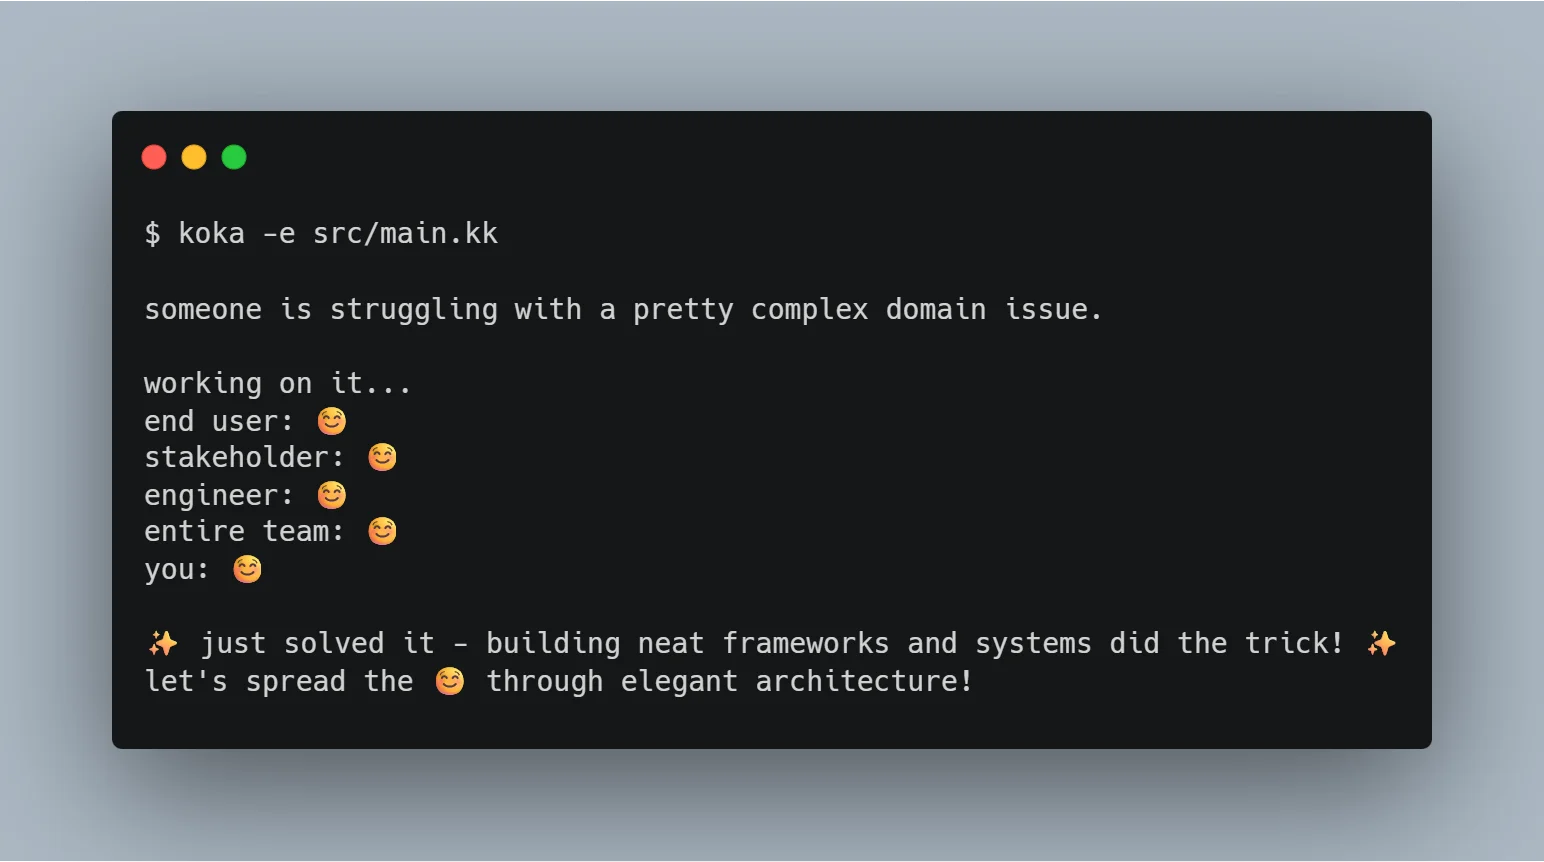
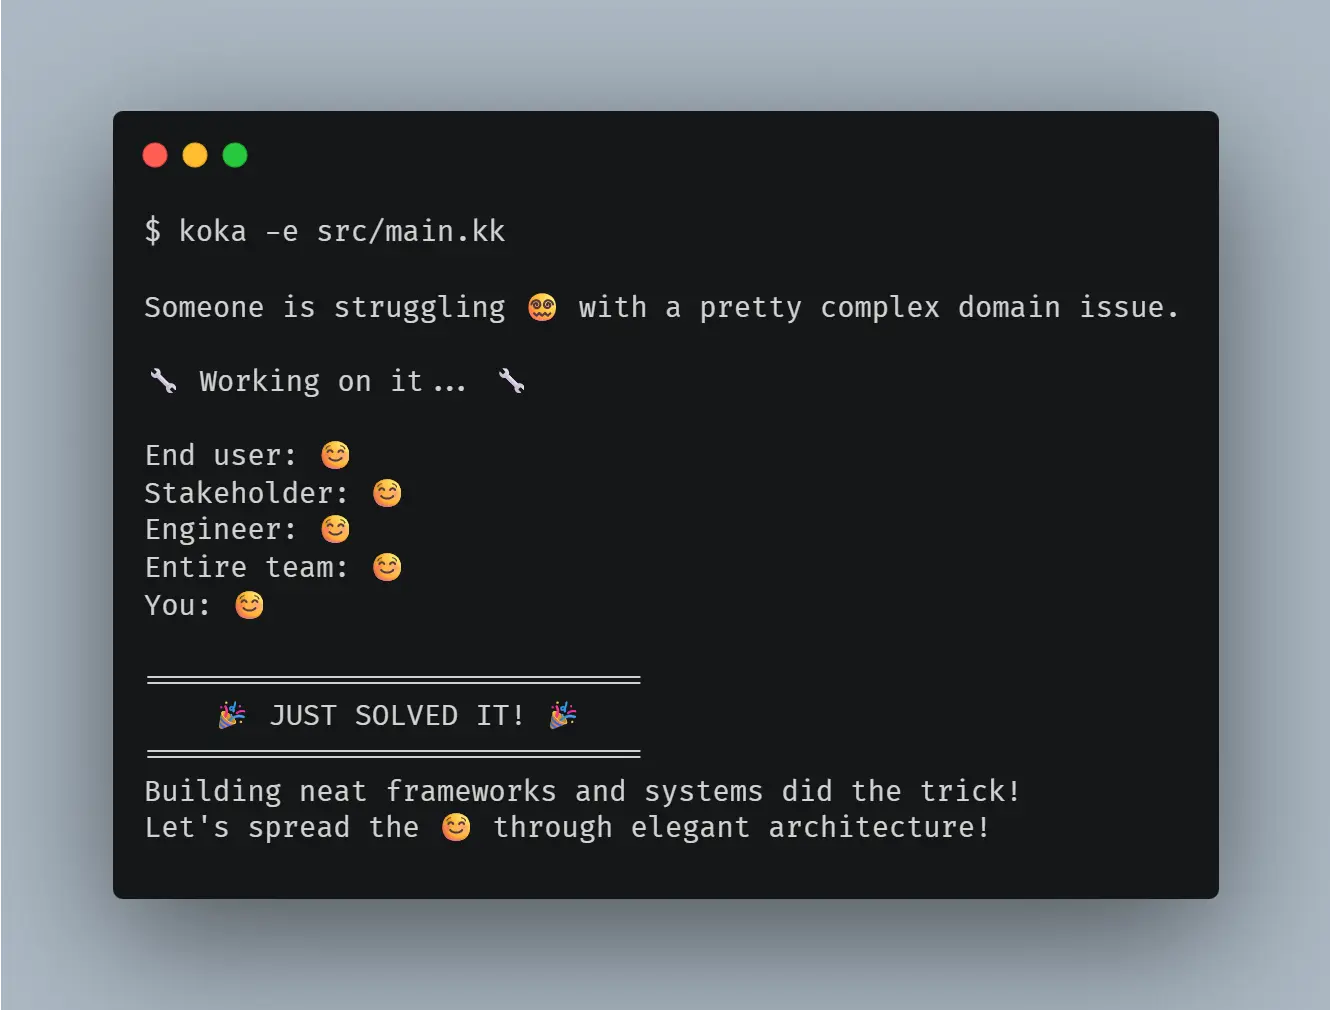
feat: update README.md [skip ci]

Changed region(s): [[0.0617, 0.0905, 0.9248, 0.9049], [0.0, 0.9954, 1.0, 1.0]]

diff --git a/README.md b/README.md
@@ -74,7 +74,7 @@ struct outcome
 // Resolves an issue by applying a solution.
 // Makes everyone happy as a side effect.
 fun resolve(issue, solution): happiness outcome
-  val users = ["end user", "stakeholder", "engineer", "entire team", "you"]
+  val users = ["End user", "Stakeholder", "Engineer", "Entire team", "You"]
 
   users.foreach fn(person) { makeHappy(person) }
 
@@ -82,16 +82,19 @@ fun resolve(issue, solution): happiness outcome
 
 // Models an software development process where solving problems makes everyone happy.
 fun main()
-  val issue = Issue("a pretty complex domain issue", "someone")
+  val issue = Issue("a pretty complex domain issue", "Someone")
 
-  println(issue.actor ++ " is struggling with " ++ issue.description ++ ".\n")
-  println("working on it...")
+  println(issue.actor ++ " is struggling 😵💫 with " ++ issue.description ++ ".\n")
+  println("🔧 Working on it... 🔧\n")
 
   val outcome = withHappiness fn()
-    resolve(issue, "building neat frameworks and systems")
+    resolve(issue, "Building neat frameworks and systems")
 
-  println("\n✨ just solved it - " ++ outcome.solution ++ " did the trick! ✨")
-  println("let's spread the ☺ through elegant architecture!")
+  println("\n=============================")
+  println("    🎉 JUST SOLVED IT! 🎉")
+  println("=============================")
+  println(outcome.solution ++ " did the trick!")
+  println("Let's spread the ☺ through elegant architecture!")
 ```
 
 ## Setup
